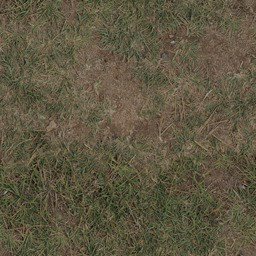
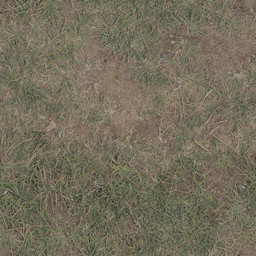
went back for simple solution with the background image. todo: add gradient that scrolls well.

diff --git a/app/assets/stylesheets/application.css.scss b/app/assets/stylesheets/application.css.scss
@@ -24,20 +24,9 @@ html, body {
      font-size: 14px;
      line-height: 1.42857143;
      color: #333;
-     background: image-url('ground.jpg');
+     background-image: image-url('ground.jpg');
  }
-
- body:before {
-    content: " ";
-    width: 100%;
-    height: 100%;
-    position: absolute;
-    z-index: -1;
-    top: 0;
-    left: 0;
-    background: -webkit-radial-gradient(top center, ellipse cover, rgba(255,255,255,0.1) 0%,rgba(0,0,0,0.5) 100%);
-}
-
+ 
 main {
   opacity: 0.95;
   max-width: 960px;
